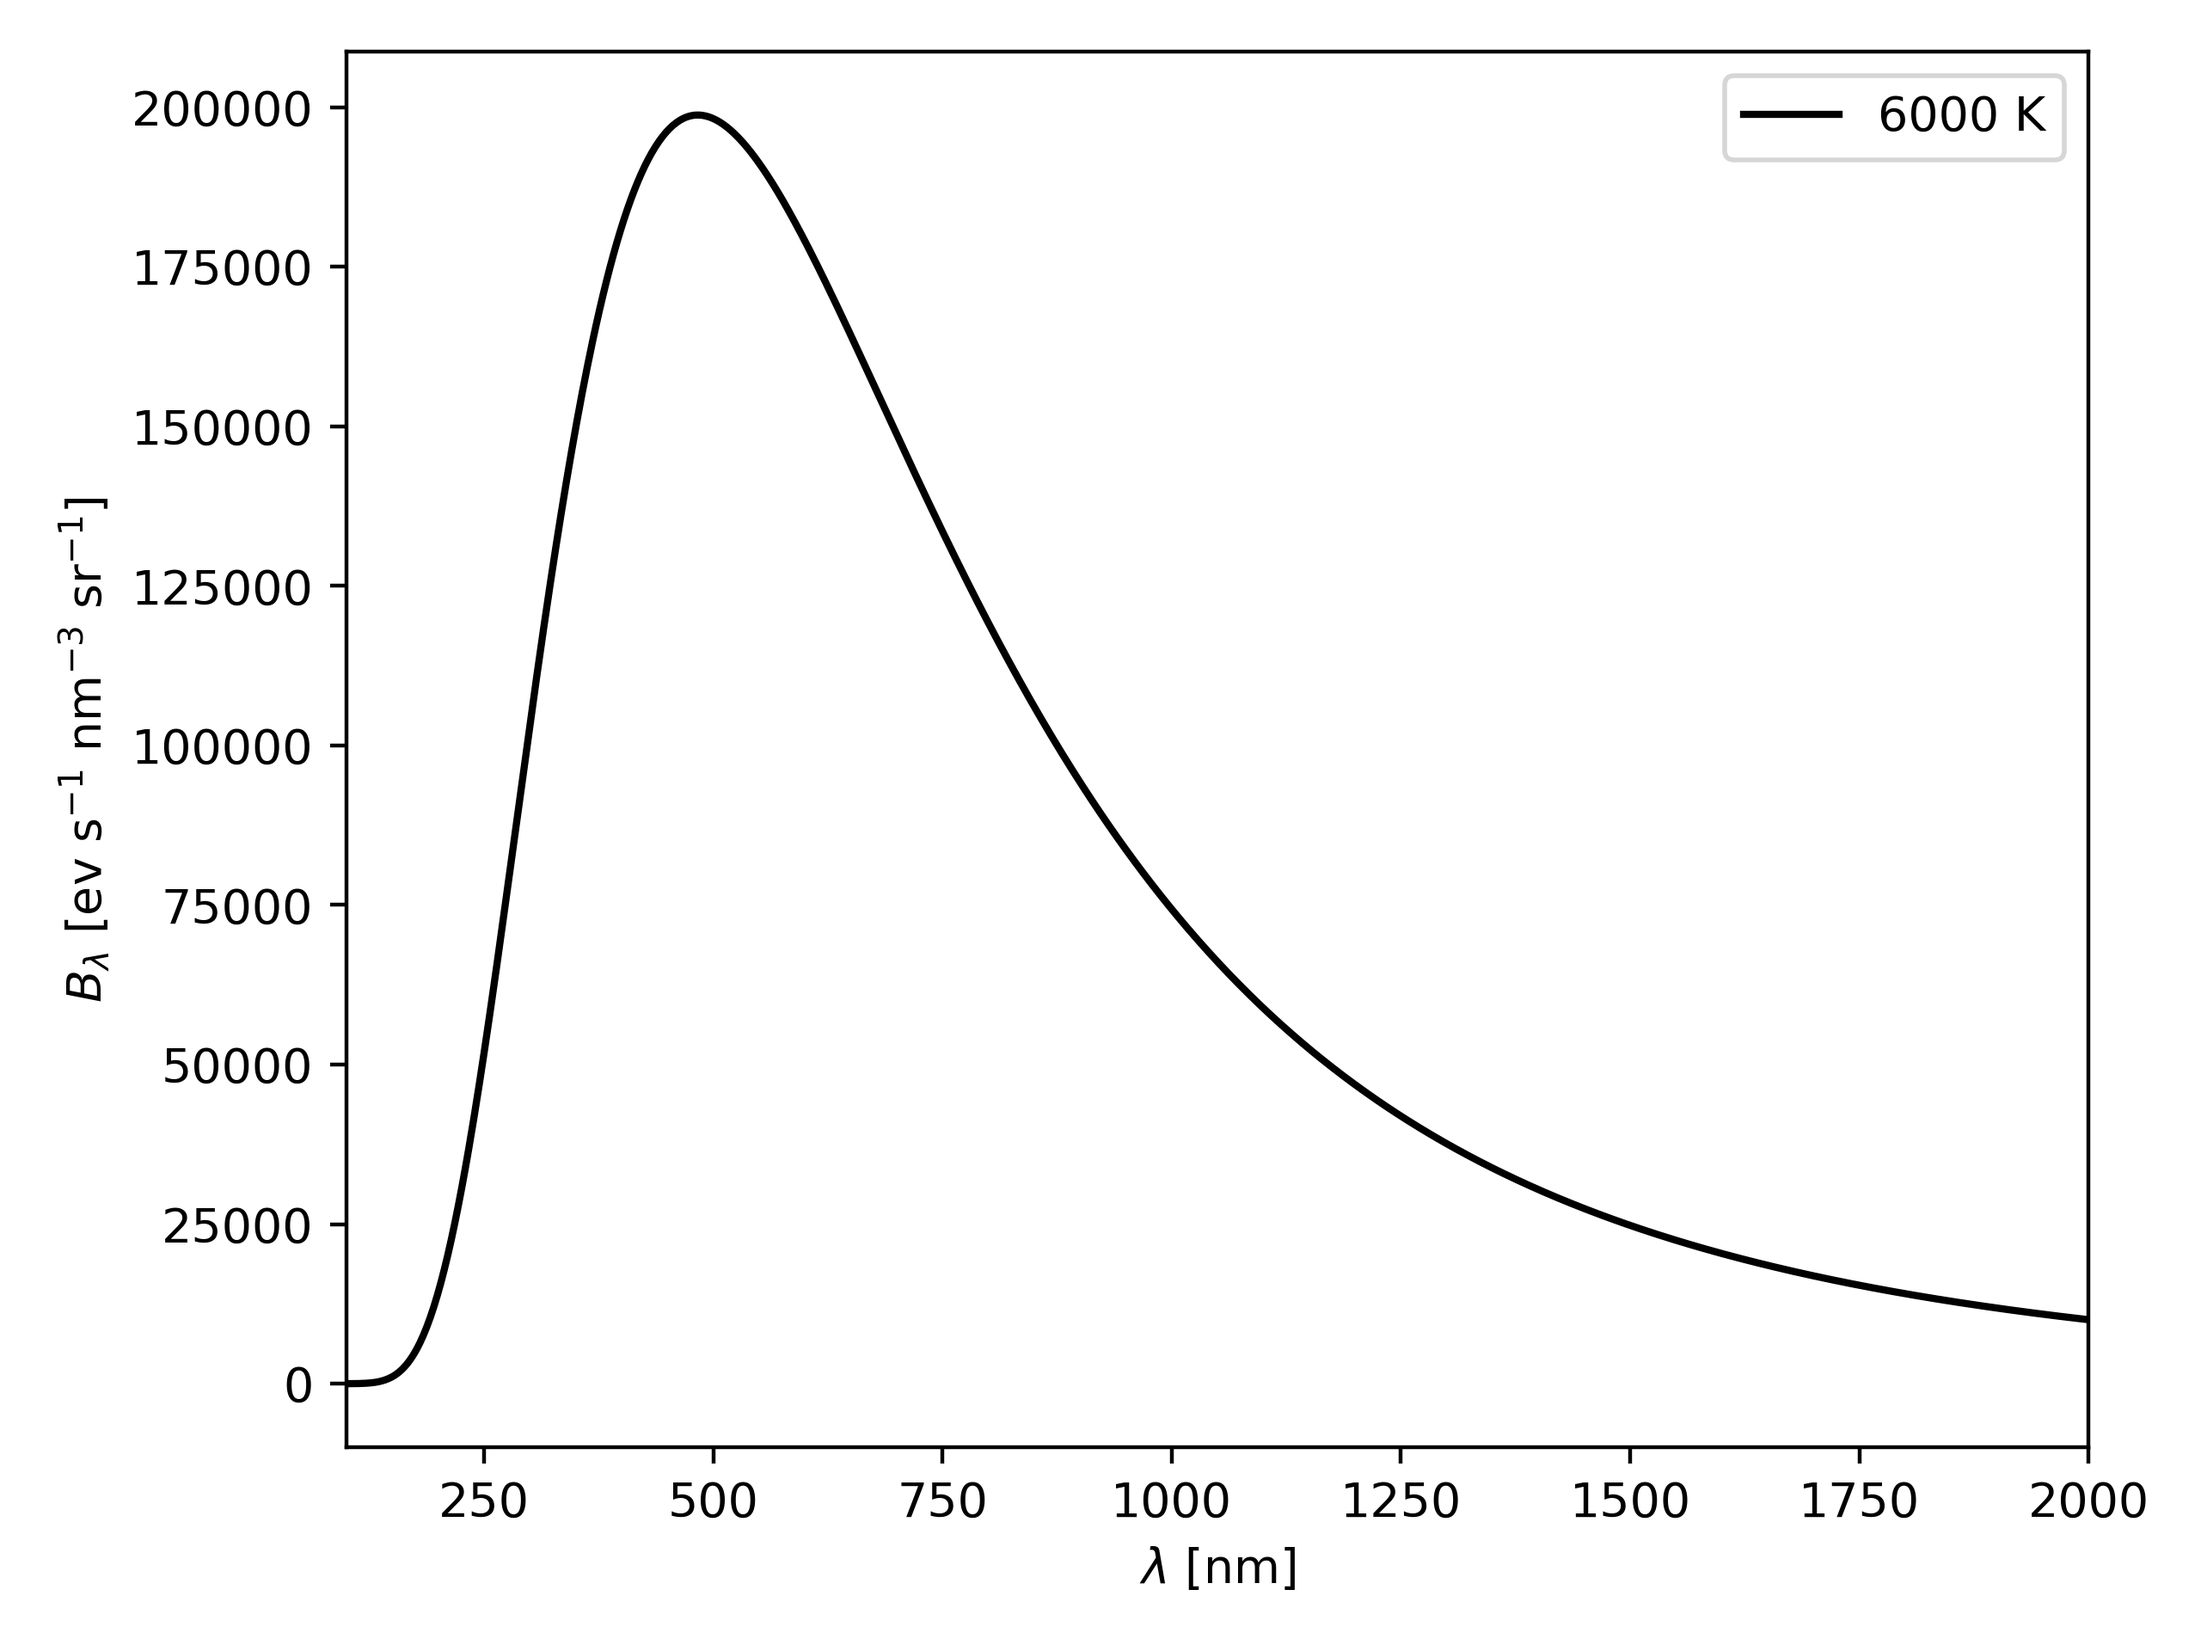
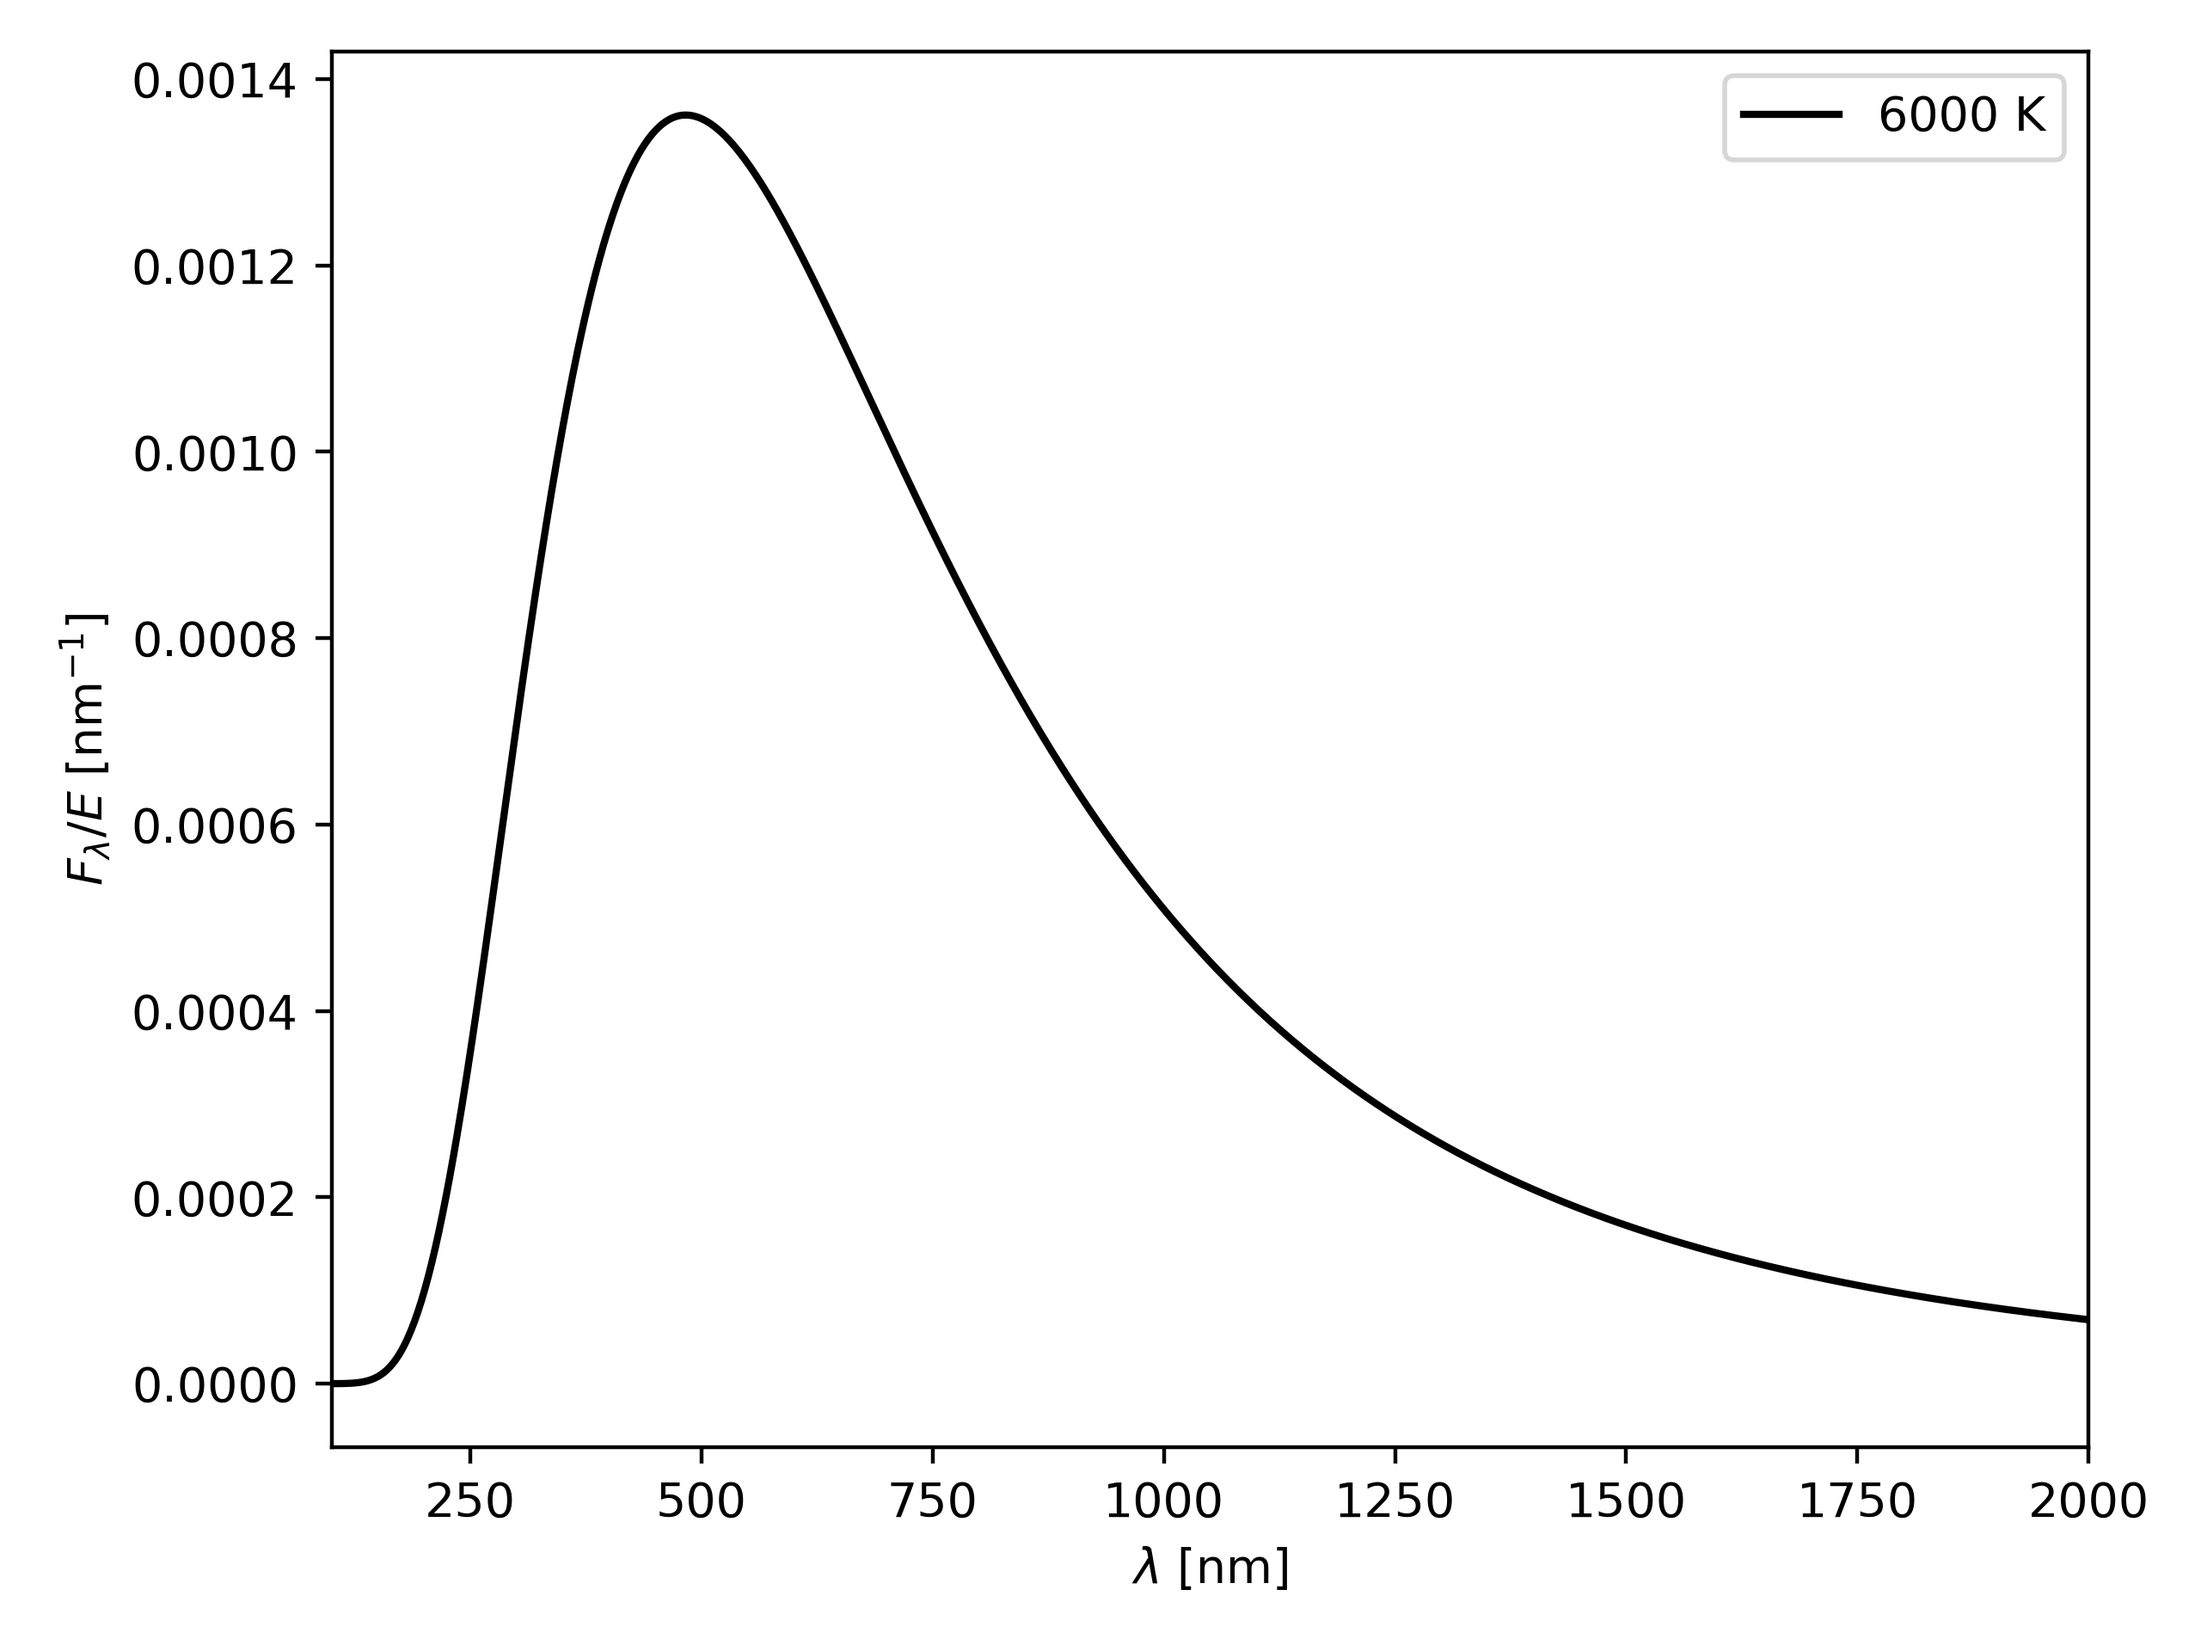
denormalization

diff --git a/Airy/Airy_6.py b/Airy/Airy_6.py
@@ -5,23 +5,24 @@ Blackbody spectrum.
 import matplotlib.pyplot as plt
 import numpy as np
 
-hc = 1.23984198e3 # eV nm
-c = 299792458e9 # nm / s
-kB = 8.617333262145e-5 # eV / K
-
 T = 6000
 λl = 100
 λr = 2000
 n = 10 ** 3
 
-λ = np.linspace(λl, λr, n)
+hc = 1.23984198e3      # eV nm
+c = 299792458e9        # nm s^-1
+kB = 8.617333262145e-5 # eV K^-1
+σ = 2 / 15 * np.pi ** 5 * kB ** 4 / hc ** 3 * c # ev s^-1 nm^-2 K^-4
 
-B = 2 * hc * c / λ ** 5 / (np.exp(hc / (λ * kB * T)) - 1) # eV / s / nm^3 / sr
+λ = np.linspace(λl, λr, n)
+B = 2 * hc * c / λ ** 5 / (np.exp(hc / (λ * kB * T)) - 1) # eV s^-1 nm^-3 sr^-1
+B /= σ * T ** 4 / np.pi # nm^-1 sr^-1
 
 plt.plot(λ, B, 'k', label=f'{T} K')
 plt.legend()
 plt.xlim(λl, λr)
 plt.xlabel(r'$\lambda$ [nm]')
-plt.ylabel(r'$B_\lambda$ [ev s$^{-1}$ nm$^{-3}$ sr$^{-1}$]')
+plt.ylabel(r'$F_\lambda / E$ [nm$^{-1}$]')
 plt.tight_layout()
 plt.savefig('Airy_6.png', dpi=400)

diff --git a/README.md b/README.md
@@ -20,6 +20,6 @@
 
 ![Airy_5](https://raw.githubusercontent.com/olafx/Optics/master/renders/Airy_5.png)
 
-## Planck's blackbody spectrum
+## Normalized Planck blackbody spectrum
 
 ![Airy_6](https://raw.githubusercontent.com/olafx/Optics/master/renders/Airy_6.png)
